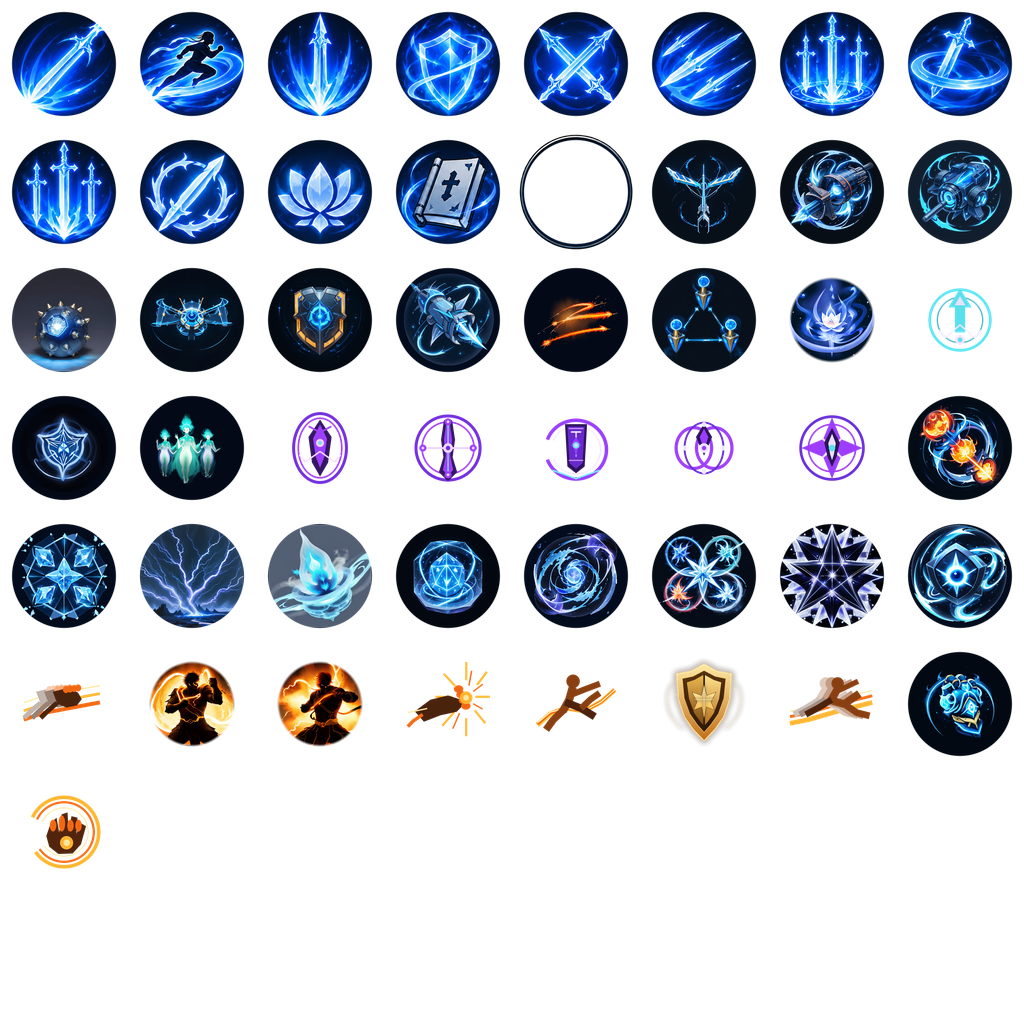
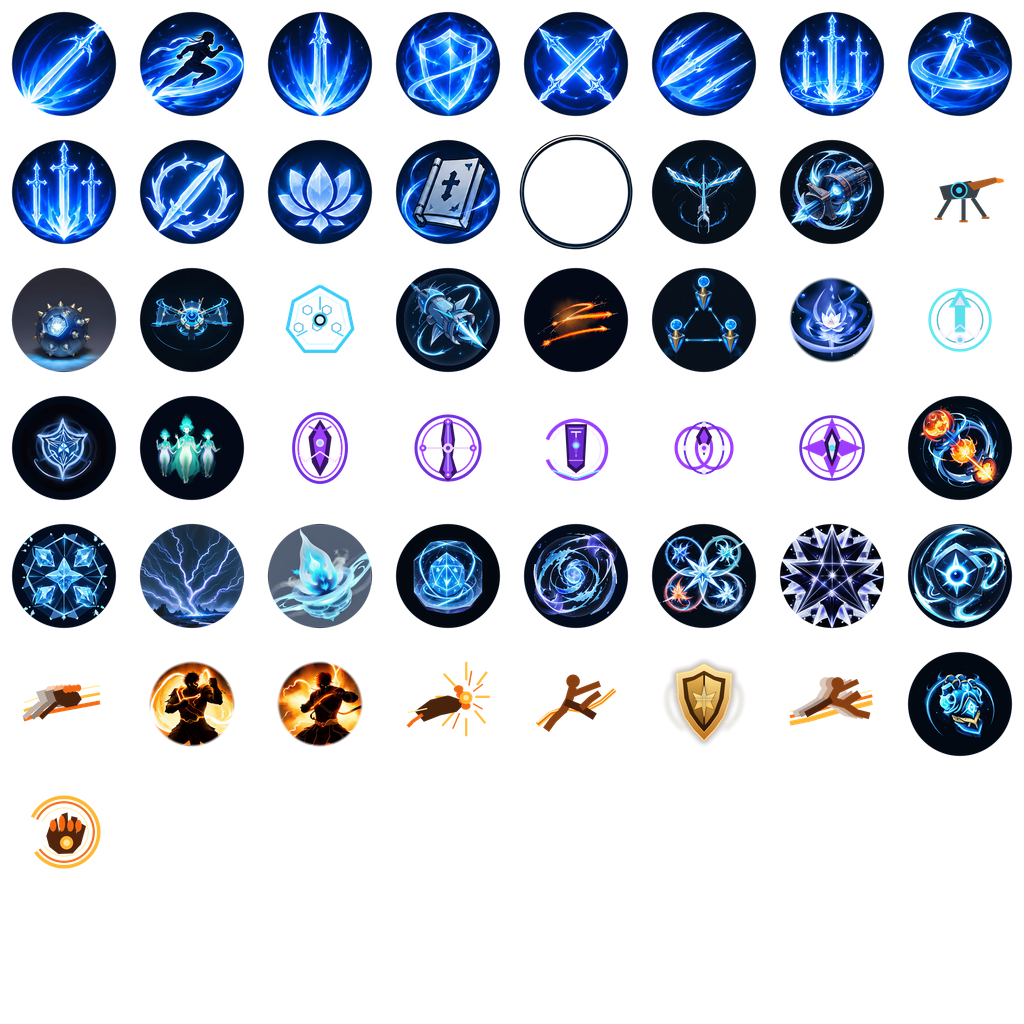
chore: lgo autopilot checkpoint character-hub-v52 - character-hub-fireline-cleanse-paint-v45
Status: CONTINUE
Phase: character-hub-skill-art
Next action: Đối chiếu Bộ Pháp/Đột Kích/Quyền Ý với đúng vùng demo Võ và thay hình tác động sai; không alias gameplay/gamma hoặc dùng output bị loại.
Reason: Hai artwork mới đã kiểm nguồn và Player; frame/content/actor giữ nguyên. Toàn mỹ thuật chưa hoàn tất.

Validation:
- Graphics EditMode315/315 không fail/skip
- Python88/88=79repo+9source
- Một build {'errors': 0, 'warnings': 0}; hai selection passes;264PNG,10ảnh đã xem
- Hai module thay;47module/frame/library/actor nguyên
- Native RGBA và portable PNG replay exact; source ZIP integrity

Changed region(s): [[0.875, 0.125, 1.0, 0.25], [0.25, 0.25, 0.375, 0.375]]

diff --git a/docs/execution/PROJECT-STATE.md b/docs/execution/PROJECT-STATE.md
@@ -1,3 +1,10 @@
+## Character Hub v52 — Cơ turret + mechanical shield — 2026-09-17
+
+- `Tháp Cơ` redraw theo visual-only `Turret Nhỏ`; `Thiết Vệ` redraw theo `Khiên Cơ Giới`. Không đổi ID/tên/cấp/gameplay.
+- Exactly2 module đổi,47 module+frame giữ nguyên; shared base/content split, exact ownership và actor giữ nguyên.
+- Fresh gate: packer13/13, Unity315/315, một Player build0error0warning,264frame=2skill×3viewport×44; eye-review đủ6 selected states.
+- Cơ còn các ô legacy cần audit; chỉ sửa mapping trực tiếp, không suy diễn `Cơ Lôi/Truy Kích/Linh Cơ` từ tên.
+
 ## Character Hub v51 — Linh Hộ Mệnh protective charm — 2026-09-17
 
 - Hộ Mệnh redraw theo visual-only motif `Linh Hộ Phù`: phù bảo hộ + vòm khiên tím; không đổi ID/tên/cấp/gameplay.

diff --git a/docs/execution/NEXT-ACTION.md b/docs/execution/NEXT-ACTION.md
@@ -1,3 +1,10 @@
+# NEXT ACTION — Character Hub / after v52
+
+1. Audit Pháp against its class demo first because several runtime/demo labels have direct matches; fix only direct motif mismatches.
+2. For Cơ, keep `Tháp Cơ`, `Thiết Vệ`, `Hỏa Tuyến`, `Cơ Trận` unless a concrete defect is found. Do not force-map ambiguous `Cơ Lôi`, `Truy Kích`, `Linh Cơ`, `Pháo Kích`, `Cơ Nỏ`.
+3. Keep Võ `Kình Lực` unchanged until a direct source/semantic contract exists.
+4. Keep shared frame/content separation, exact ownership and actor; build/capture only when runtime art changes.
+
 # NEXT ACTION — Character Hub / after v51
 
 1. Do not force-map Võ `Kình Lực` to `Chiến Ý`; current evidence is insufficient. Revisit only with a direct source/semantic contract.
